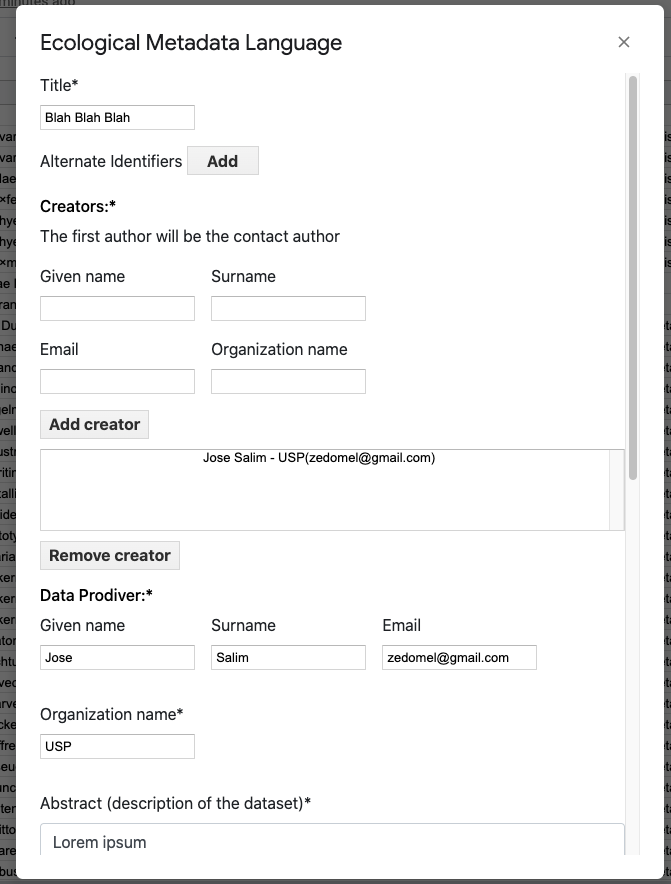
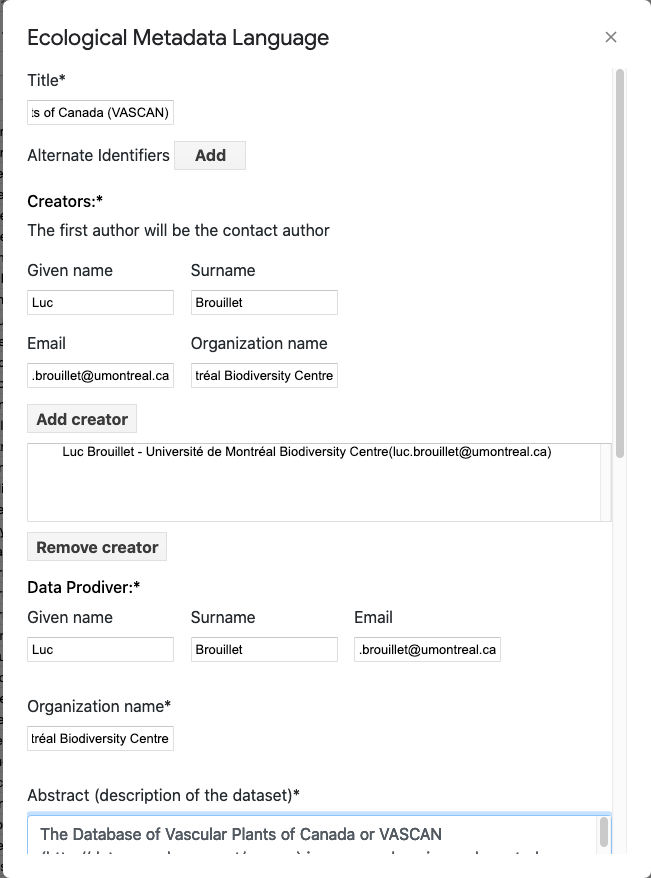
Updated EML editor image and correct typos

Changed region(s): [[0.0, 0.0, 1.0, 1.0], [0.553, 0.6765, 0.768, 0.7688]]

diff --git a/docs/index.md b/docs/index.md
@@ -7,7 +7,7 @@ layout: default
 
 # Rationale
 
-Most biologists and biodiversity data managers organize their data into spreadsheets and for thoses whom are not familiary with Information Science practices of data standardization, the usage of complex software to assist the creation of standardized datasets can be painful, or even prohibited.
+Most biologists and biodiversity data managers organize their data into spreadsheets and for thoses whom are not familiar with Information Science practices of data standardization, the usage of complex software to assist the creation of standardized datasets can be painful, or even prohibited.
 
 Based on that, the Google Sheet Add-on available here searches to explore the familiarity of the users with spreadsheets and allow them to create and publish standardized biodiversity data using Darwin Core Standard.
 The add-on aims to provided a simple and intuitive interface for users not familiary with the concepts of Darwin Core Standard (DwC) and data sharing using Darwin Core Archives. 
@@ -49,7 +49,7 @@ To add or remove a mapping row from a sheet select the option *Add/Remove mappin
 The Darwin Core Archive is used to represent complex structures within data (one-to-many relations) by the definition of a **star schema**. For that reason, a special term `CORE_ID` is available on the mapping row list of terms. Using the `CORE_ID` term is possible to "link" or represeting the relations between data in different sheets. Records (i.e. rows) from different sheets can be linked into a one-to-many relation by mapping a column to the `CORE_ID` term in all related sheets. Two or more columns in different sheets which have the `CORE_ID` term by definition of Darwin Core Archive Standard have to be filled same value (see figure bellow as an example).
 
 ![The CORE_ID term](/assets/img/core-id-term.png)
-*The row in the left sheet with `CORE_ID` `2787` is liked to the two rows of the right sheet, creating a one-to-many relation between sheets. The left sheet after will be selected as the **core sheet** and the right sheet as **extension sheet** in DwC-Archive nomenclature*
+*The row in the left sheet with `CORE_ID` `2787` is linked to the two rows of the right sheet, creating a one-to-many relation between sheets. The left sheet after will be selected as the **core sheet** and the right sheet as **extension sheet** in DwC-Archive nomenclature*
 
 ## Ecological Metadata Language Editor
 
